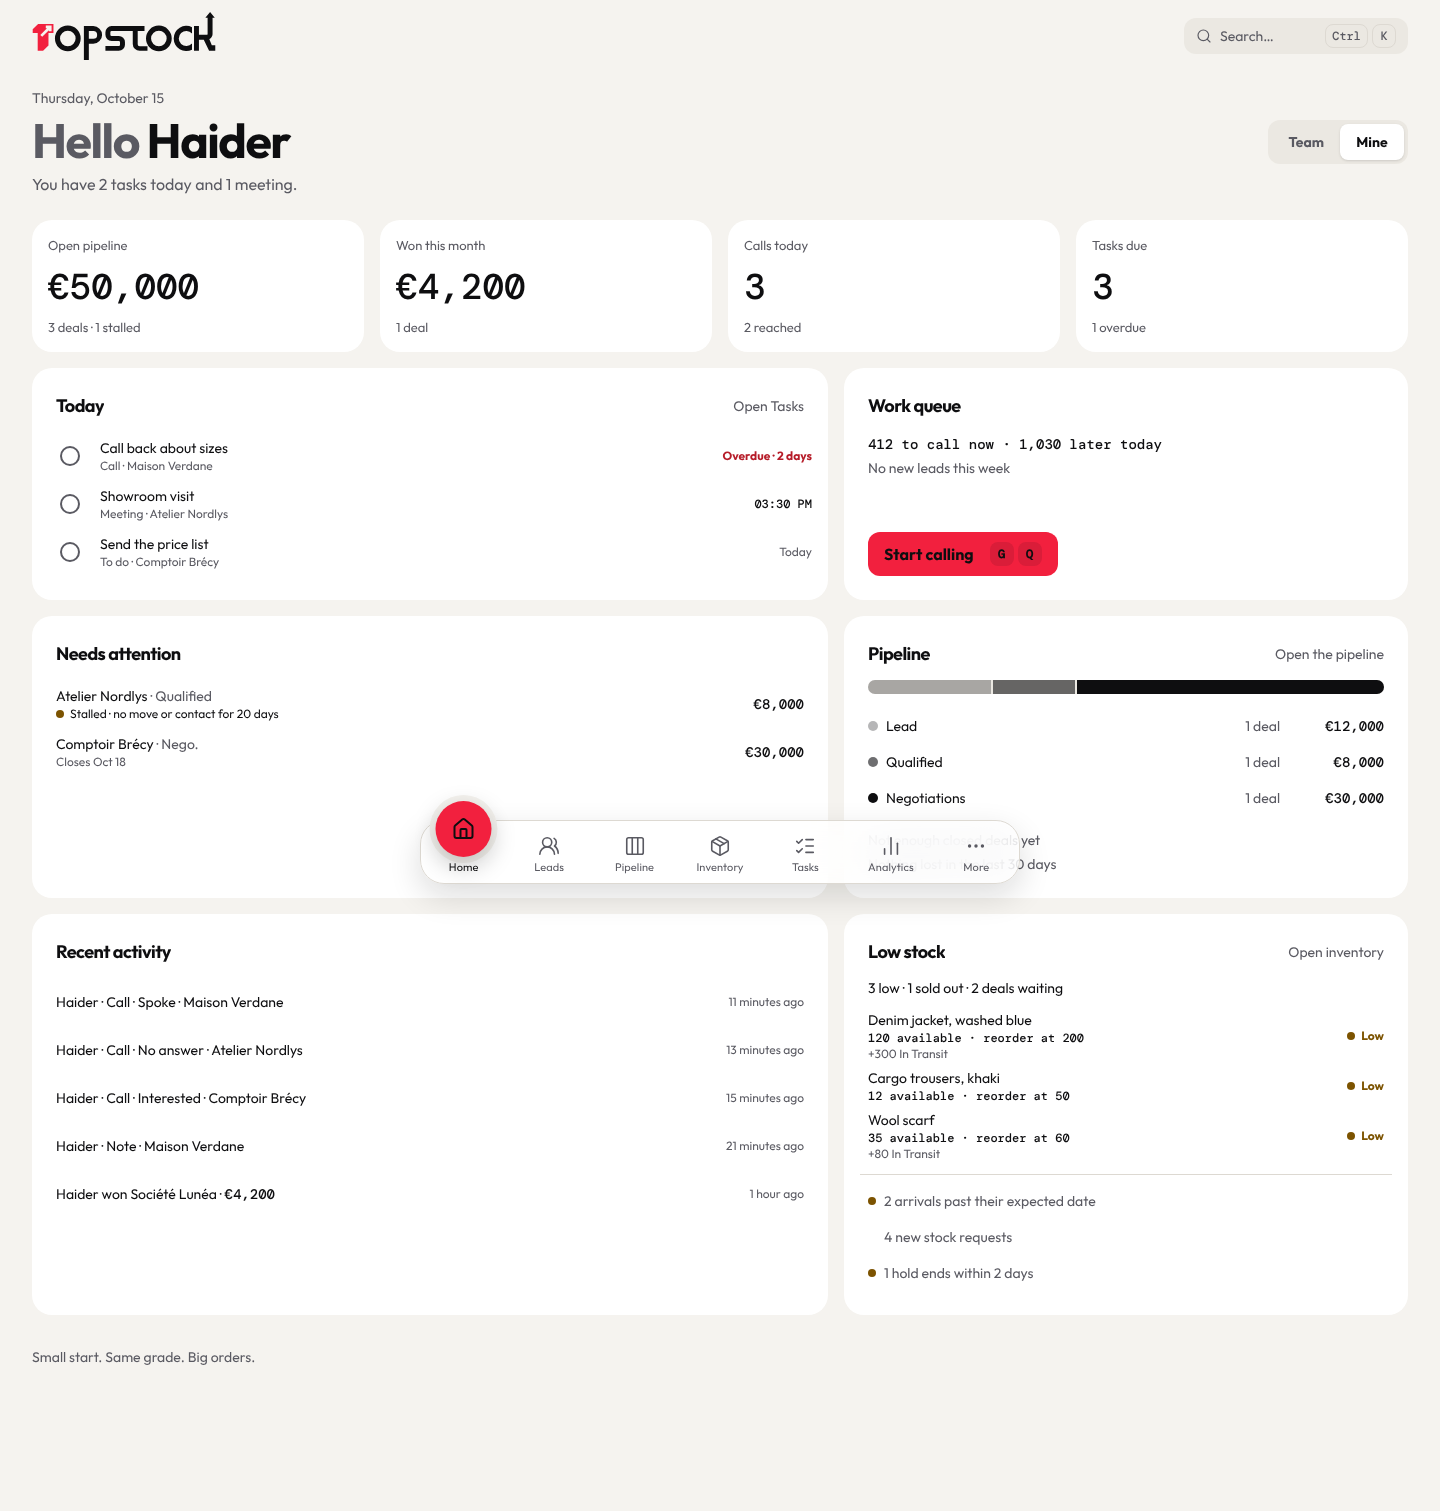
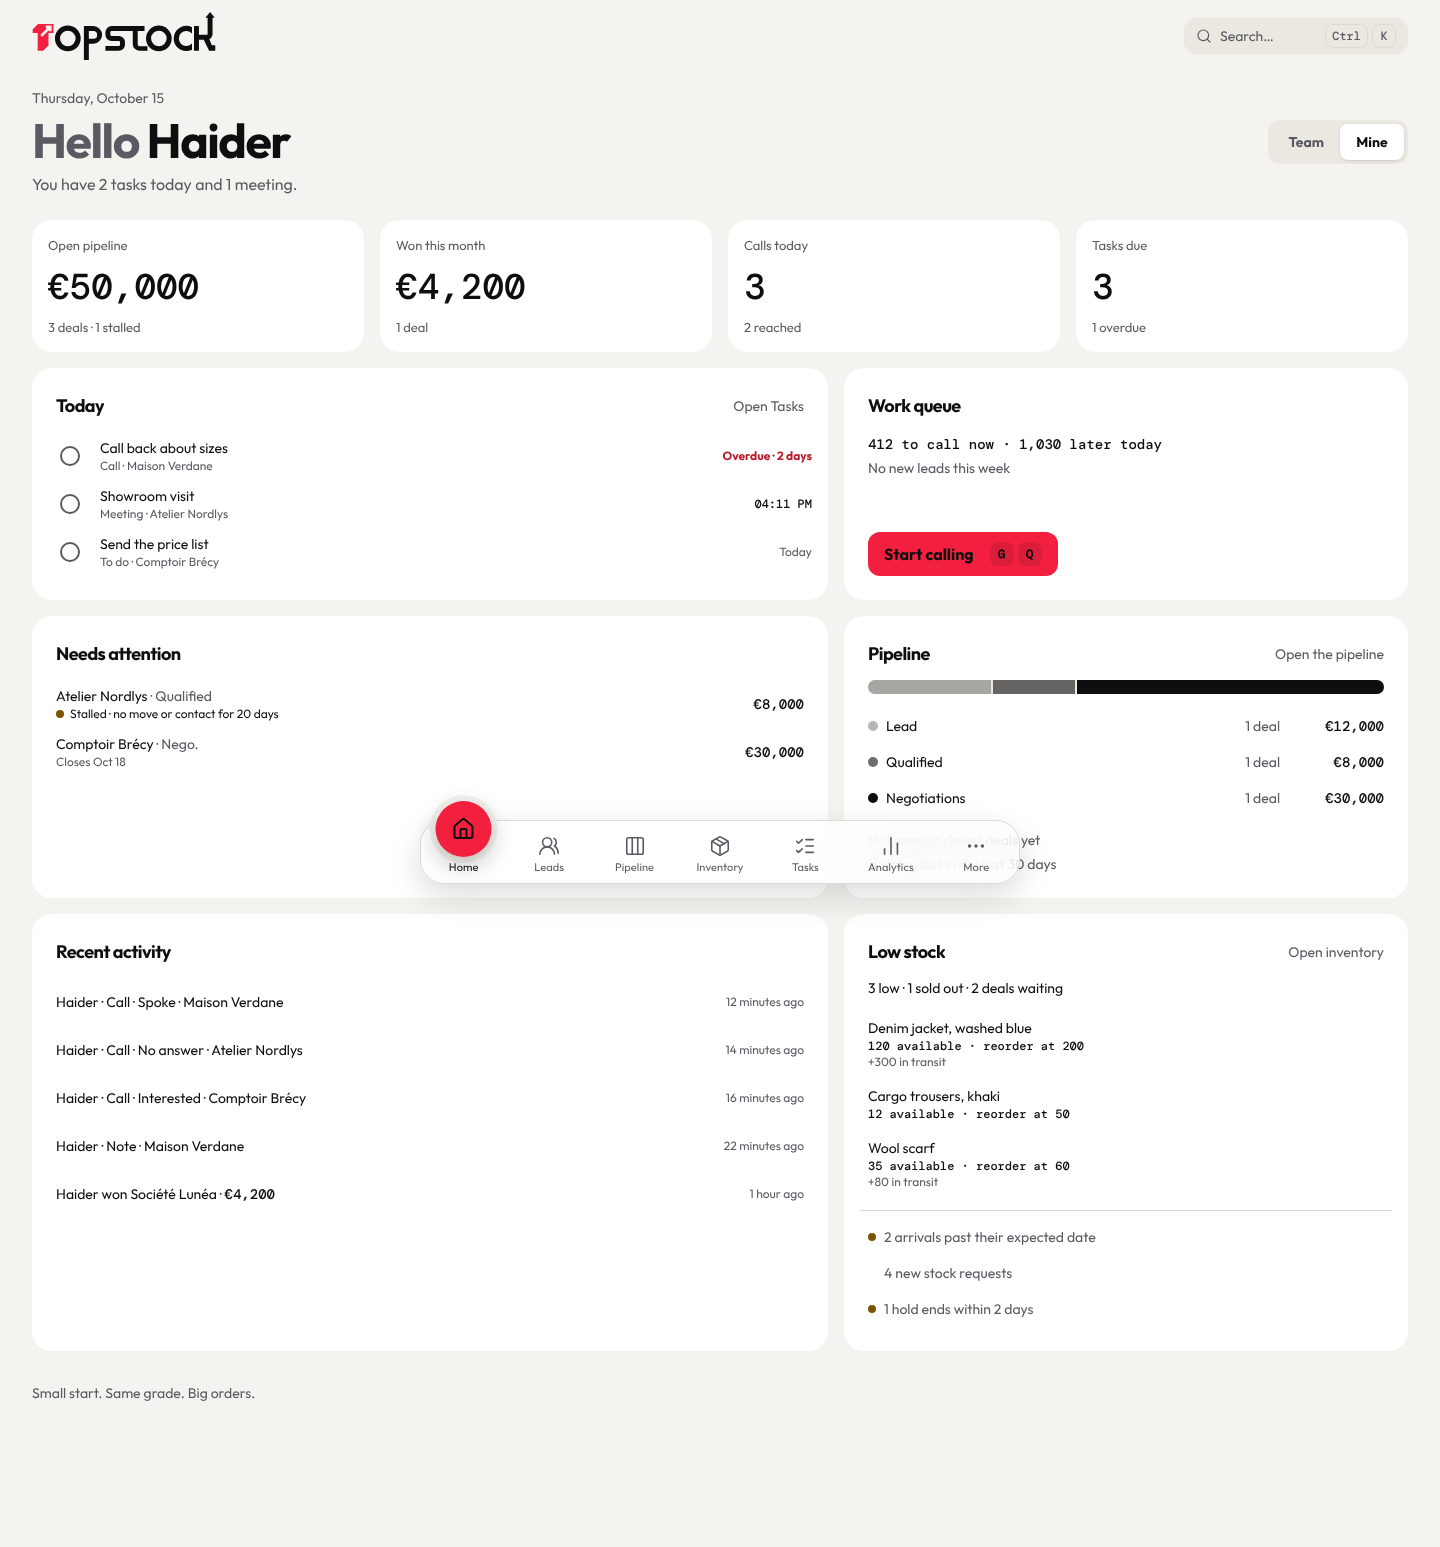
Advisor items 2 and 3 (evidence): Low stock shots at every width (390 to 1728) in EN and FR, light and dark, each failing on a console error, sideways scroll or a cut text line; new home-low-stock-loading shots measuring the skeleton against the filled card (within 20 px where the card is full width
Claude-Session: https://claude.ai/code/session_017iY13emXgm4frkkmSZrEnt

diff --git a/tests/auth/home-screens.spec.ts b/tests/auth/home-screens.spec.ts
@@ -5,10 +5,10 @@ import { makeOrg, moveTo, seedHome, userId } from "./home-fixture";
 
 // Day 5c evidence screenshots (design 8.5 "Screens", CLAUDE.md widths): Home with data (before Day 6, so Low stock shows
 // its placeholder) at 390, 768, 1024, 1280, 1440 and 1728, light and dark, English and French; a representative set in
-// EN light and FR dark at 390 and 1440: a new org's empty states, one card failing alone, Low stock filled from Day 6's
-// stock_alerts() shape, the deal sheet over Home, the loading skeleton, and the Work queue card with Day 4c's counts. The
-// person is an admin in an org made for this run, so the figures are the fixture's. URL asserted before each shot; no
-// console error and no sideways scroll first. Saved to test-results/home-screens, or DAY5C_SCREENS_DIR (locally
+// EN light and FR dark at 390 and 1440: a new org's empty states, one card failing alone, the deal sheet over Home, the
+// loading skeleton, and the Work queue card with Day 4c's counts; and Low stock filled from Day 6's stock_alerts() shape
+// at every width, light and dark, EN and FR. The person is an admin in an org made for this run, so the figures are the
+// fixture's. URL asserted before each shot; no console error and no sideways scroll first. Saved to test-results/home-screens, or DAY5C_SCREENS_DIR (locally
 // docs/evidence/day5c/screens).
 test.describe.configure({ mode: "serial", timeout: 900_000 });
 
@@ -35,6 +35,16 @@ const some = [
 // Day 4c's queue_summary is not on this branch (the card says the counts come with the work queue); the shots show the card as it
 // will look with 4c's contract, mocked, except the one shot named home-queue-before-4c.
 const queueMock = { callable_now: 412, later_today: 1030 };
+// The filled Low stock card's height per shot (locale-scheme-width), for its loading skeleton to be measured against.
+const filledLowStock = new Map<string, number>();
+
+// "en-light-390": the shot's locale, scheme and width, read back from the page.
+async function shotKey(page: Page) {
+  return page.evaluate(() => {
+    const dark = window.matchMedia("(prefers-color-scheme: dark)").matches ? "dark" : "light";
+    return `${document.documentElement.lang}-${dark}-${window.innerWidth}`;
+  });
+}
 
 async function shoot(
   browser: Browser,
@@ -136,9 +146,12 @@ test("representative set: empty org, card error, deal sheet, skeleton, queue bef
 });
 
 // Low stock filled from Day 6's stock_alerts() shape (Haider's decision B, 15 Oct 2026): the counts, up to 5 low
-// products and the follow-up lines. Run alone with --grep "Low stock" to re-take only these shots.
+// products and the follow-up lines, at every width (the card is 5 of 12 columns from 1024, so 1024 and 1280 are its
+// narrowest desktop sizes), light and dark, EN and FR. Each product's "available against the reorder level" line must
+// show whole (no ellipsis), like the console and sideways-scroll checks every shot makes. Run alone with --grep
+// "Low stock" to re-take only these shots.
 test("Low stock filled from Day 6's stock_alerts", async ({ browser }) => {
-  await shoot(browser, "home-low-stock-day6", some, [390, 1440], {
+  await shoot(browser, "home-low-stock-day6", full, ALL, {
     act: async (page) => {
       await page.route((url) => url.pathname === "/api/home" && url.searchParams.get("scope") === "mine", async (route) => {
         const res = await route.fetch();
@@ -159,8 +172,45 @@ test("Low stock filled from Day 6's stock_alerts", async ({ browser }) => {
       const scope = page.getByRole("group", { name: /Figures for|Chiffres de/ }).getByRole("button", { name: /Mine|Moi/ });
       await scope.click();
       await expect(scope).toHaveAttribute("aria-pressed", "true");
-      await expect(page.getByRole("region", { name: /Low stock|Stock bas/ }).getByRole("listitem").first()).toBeVisible();
+      const low = page.getByRole("region", { name: /Low stock|Stock bas/ });
+      const products = low.getByRole("listitem").filter({ hasText: /available|Disponible/ });
+      await expect(products).toHaveCount(3);
       await page.waitForTimeout(300);
+      // Nothing in a product row is cut: every text line fits its box (scrollWidth within clientWidth).
+      const cut = await products.evaluateAll((items) =>
+        items.flatMap((li) => [...li.querySelectorAll("span")].filter((s) => !s.children.length && s.scrollWidth > s.clientWidth + 0.5).map((s) => s.textContent)),
+      );
+      expect(cut, "low stock lines cut").toEqual([]);
+      const box = await low.boundingBox();
+      filledLowStock.set(await shotKey(page), box!.height);
     },
   });
 });
+
+// The loading skeleton (Home's loading.tsx) against the filled card above: the Low stock skeleton has the filled card's
+// blocks (action, count line, three product rows, follow-up lines), so where the card is full width (390, 768: nothing
+// beside it stretches it) its height stays within one text line of the filled card's. Run after the test above.
+test("Low stock loading skeleton matches the filled card", async ({ browser }) => {
+  expect(filledLowStock.size, "run with the filled Low stock test").toBe(24);
+  await shoot(browser, "home-low-stock-loading", full, ALL, {
+    path: "/leads",
+    act: async (page) => {
+      await page.waitForTimeout(800);
+      await page.route((url) => url.pathname === "/" && url.searchParams.has("_rsc"), async (route) => {
+        await new Promise((r) => setTimeout(r, 8000));
+        await route.continue().catch(() => {});
+      });
+      await page.getByRole("navigation", { name: /Sections/ }).getByRole("link").first().click();
+      const skeleton = page.locator("[data-skeleton='low-stock']");
+      await expect(skeleton).toBeVisible();
+      const key = await shotKey(page);
+      if (stackedWidth(key)) {
+        const height = (await skeleton.boundingBox())!.height;
+        expect(Math.abs(height - filledLowStock.get(key)!), `${key}: skeleton ${height}, filled ${filledLowStock.get(key)}`).toBeLessThanOrEqual(20);
+      }
+    },
+  });
+});
+function stackedWidth(key: string) {
+  return /-(390|768)$/.test(key);
+}

diff --git a/docs/evidence/day5c/apple-design-audit.md b/docs/evidence/day5c/apple-design-audit.md
@@ -22,3 +22,23 @@ Not done here: the Taste Skill pass (see README "Not done").
   the counts are 4c's queue_summary or "Nobody to call right now." (screens `v1-home-queue-*`, EN light and FR dark).
 - Today: a meeting with a lead in another zone shows "{time} their time" under its time (muted, DM Mono), as the Tasks page.
 - Needs attention: a row that leaves after a move hands the focus to the row now at its place (or the heading).
+
+## Advisor item 3 (15 Oct): the Low stock card filled from Day 6's `stock_alerts()`
+
+Order per CLAUDE.md: DESIGN.md (source of truth), then the Taste Skill (`design-taste-frontend`, dials from DESIGN.md:
+low variance 3, medium motion 5, medium-high density 7; its section 13 puts dashboards out of scope, so only its
+general rules were applied), then `anthropic-skills:apple-design` (this copy holds only its introduction: interfaces
+that feel physical, motion from the current value, restraint and feedback; judged by those foundations), then the web
+interface guidelines (`web-design-guidelines.md`). Looked at: `screens/home-low-stock-day6-*` before (scratch copies of
+the old build, 24 shots) and after (24 shots), and `screens/home-low-stock-loading-*` (24 shots).
+
+| Area | Finding | Result |
+|---|---|---|
+| Restraint (DESIGN.md "status colours only as small dots or labelled badges"; Taste 9.F "no decorative dots on every row"; apple-design restraint) | the amber dot plus "Low" on every product row repeated what the card's title and its count line ("3 low · …") already say: every listed product is low by definition (Day 6's `sample` holds low products only). Five identical badges were noise, and the amber column drew the eye away from the figures | **fixed (d29be68)**: badge removed; status colour stays where it carries a state (the follow-up dots for late arrivals and holds ending) |
+| Copy (sentence case) | "+300 In Transit" was Title Case mid-line, between sentence-case lines ("120 available · reorder at 200", "2 arrivals past their expected date"). "In Transit" is the Day 6 status name (log 11 Oct), right on a status label, not inside a line | **fixed (d29be68)**: EN "+300 in transit"; FR was already "+300 en transit"; unit test pins both |
+| Loading skeleton (DESIGN.md and CLAUDE.md: skeletons match the final layout; Taste 4.5) | the card's loading state and Home's `loading.tsx` drew 3 generic one-line rows with no header action: shorter than the filled card (count line, 3 two- or three-line product rows, follow-up lines) and a different shape | **fixed (d29be68)**: `LowStockSkeleton` draws the action, the count line, three product rows (name, figures; first and last with a transit line) and three follow-up lines, with the real rows' paddings and minimum heights. `home-screens` measures it against the filled card where the card is full width (390, 768: within 20 px, every locale and scheme); from 1024 the grid row stretches both to Recent activity's height |
+| Spacing (8pt grid) | three-line rows (name, figures, transit) had no vertical padding, so "+300 in transit" sat against the next product's name (seen at 1024 and 1280) | **fixed (d29be68)**: rows `py-2` (8 px), minimum heights kept (56 px phones, 48 px from 768) |
+| Figures cut (advisor: DM Mono line at 1024 and 1280, `lg:col-span-5`) | not cut with the fixture at any width (`home-screens` now checks every text line of every product row: `scrollWidth` within `clientWidth`), but the line was `truncate`, so a longer French line or 5-digit figures could have hidden a number | **fixed (d29be68)**: the figures and transit lines wrap (`break-words`), the product name alone truncates; removing the badge also gives the line the row's full width |
+| Typography | Outfit for names and counts, DM Mono for the figures that line up, muted Outfit for stock in transit; hierarchy by weight and tone, no new sizes | ok |
+| Motion and feedback | no motion in this card (it is read, not manipulated); links keep their hover tone and the global focus ring; skeleton pulse off under reduced motion (`motion-safe:`) | ok |
+| Kept on purpose | the middle dot in the count line ("3 low · 1 sold out · 2 deals waiting": two dots; Taste 9.F rations it to one per line) is the app-wide metadata separator (KPI sub-lines, feed rows, deal cards), so changing it here alone would break consistency | no change |

diff --git a/docs/evidence/day5c/screens/README.md b/docs/evidence/day5c/screens/README.md
@@ -1,0 +1,26 @@
+# Day 5c screenshots (Home)
+
+Made by `tests/auth/home-screens.spec.ts` (Chromium 141, local stack, `DAY5C_SCREENS_DIR=docs/evidence/day5c/screens`),
+except `v1-home-queue-*` (verifier round 1, `day5-screens.spec.ts`). The person is an admin in an org made for the run,
+so the figures are the fixture's. Each shot: URL asserted, no console error, no sideways scroll (a shot fails on
+either). Names: `<screen>-<locale>-<scheme>-<width>.png`. The full matrix is 390, 768, 1024, 1280, 1440, 1728 ×
+en/fr × light/dark (24 files).
+
+| Screen | Locales × schemes | Widths | Files | Last taken |
+|---|---|---|---|---|
+| `home` (with data, before Day 6: Low stock shows its placeholder) | en/fr × light/dark | full | 24 | 15 Oct (verifier round 1) |
+| `home-new-org` (a new org's empty states) | en light, fr dark | 390, 1440 | 4 | 15 Oct |
+| `home-card-error` (Needs attention failing alone) | en light, fr dark | 390, 1440 | 4 | 15 Oct |
+| `home-deal-sheet` (the deal sheet over Home) | en light, fr dark | 390, 1440 | 4 | 15 Oct |
+| `home-loading` (`loading.tsx` during a held navigation, first screen) | en light, fr dark | 390, 1440 | 4 | 15 Oct (unchanged by item 3: the Low stock card is below the fold) |
+| `home-queue-before-4c` | en light | 1440 | 1 | 15 Oct |
+| `home-low-stock-day6` (Low stock filled from Day 6's `stock_alerts()` shape: 3 products, 2 with stock in transit, 3 follow-up lines) | en/fr × light/dark | full | 24 | 15 Oct, advisor items 2 and 3 (was en light and fr dark at 390 and 1440 only) |
+| `home-low-stock-loading` (`loading.tsx` full page: the Low stock skeleton beside the other cards' skeletons) | en/fr × light/dark | full | 24 | 15 Oct, advisor item 3 (new) |
+| `v1-home-queue` (Work queue card with Day 4c's counts) | en light, fr dark | 390, 1440 | 4 | 15 Oct (verifier round 1) |
+
+The Low stock shots also check, before each screenshot, that no text line of a product row is cut (`scrollWidth` within
+`clientWidth`), and the loading shots that the skeleton card's height is within 20 px of the filled card's at 390 and
+768 (full-width card; from 1024 the grid row stretches both cards to Recent activity's height). Looked at: every
+Low stock width in EN and FR, with 1024 and 1280 (the card at 5 of 12 columns) closest: the figures line fits whole,
+no "Low" badge, "+300 in transit" / "+300 en transit", rows no longer touching; the skeleton beside the filled card at
+390 (same blocks, same rows).

diff --git a/docs/evidence/day5c/web-design-guidelines.md b/docs/evidence/day5c/web-design-guidelines.md
@@ -30,3 +30,33 @@ Unresolved: none.
 - Focus is kept when the focused Needs attention row leaves (after the deal sheet closes, or while it is open);
   `attention_opens_deal_sheet and refetch_after_move` checks both orders with `toBeFocused`.
 - Start calling: `aria-keyshortcuts="G Q"`, key caps `aria-hidden`.
+
+## Advisor item 3 (15 Oct): the Low stock card and its skeleton
+
+Rules: vercel-labs/web-interface-guidelines at 434b7f9 (`command.md`, fetched again with WebFetch for this audit: not
+blocked). Files: `src/components/home/low-stock-card.tsx`, `src/components/home/home-skeleton.tsx`.
+
+### Findings and fixes (d29be68)
+
+- `low-stock-card.tsx` (product rows) - Content handling: the figures line was `truncate`, so a long line could hide a
+  number → it wraps (`break-words`); the name keeps its one-line ellipsis in a `min-w-0` row.
+- `low-stock-card.tsx` (loading) and `home-skeleton.tsx` (last card) - loading state shaped unlike the content (3
+  one-line rows, no action) → `LowStockSkeleton` and `LowStockActionSkeleton` at the content's sizes, `aria-hidden`,
+  pulse behind `motion-safe:`.
+- `messages/en.json` `Home.lowStock.inTransit` - Title Case inside a line ("In Transit"); the guideline's Title Case
+  is for headings and buttons, and the app's lines are sentence case → "in transit".
+
+### Checked, no change needed
+
+- Accessibility: the card is a region named by its heading; the follow-up list is labelled ("Also in inventory"); the
+  placeholder icon and the dots are `aria-hidden`; every status keeps its words; the skeleton is `aria-hidden` and the
+  card says `aria-busy` while loading.
+- Focus and hover: the links (Open inventory, follow-ups) use the global `:focus-visible` ring and a hover tone stronger
+  than rest; 44 px targets on phones.
+- Navigation: real links with each Inventory tab or filter in the URL.
+- Typography: DM Mono (tabular) for the figures; French narrow no-break spaces before colons (unit test).
+- Locale: numbers through `useFormatter` (Intl) in the page's locale.
+- Layout: no sideways scroll at any width (`home-screens`, 72 Low stock shots); flex children `min-w-0`.
+- Performance: at most 5 product rows (no virtualisation needed).
+
+Unresolved: none.

diff --git a/docs/evidence/day5c/README.md b/docs/evidence/day5c/README.md
@@ -151,6 +151,21 @@ Verifier verdict on b6b360b: NOT READY. The Day 5c findings (the shared ones, 3,
   `home-screens --grep "Low stock"` 1 passed (4 shots).
 - **gitleaks**: `origin/main..HEAD` 77 commits and the 3 new ones alone: no leaks.
 
+## Advisor round (15 Oct, on 5f1a966..ea75fbf: CHANGES NEEDED, 4 items)
+
+1. **Day 5's own tests and Day 6's real `stock_alerts()`** (ceca0b5; 6d README note on day6a-local 400ff4e): see
+   "Rebase points" for the four places and how they now work on either body; mutation rows 20 and 21.
+2. **Low stock shots at every width** (`home-screens.spec.ts`): `home-low-stock-day6` now 390 to 1728 × EN/FR ×
+   light/dark (24 shots); each still fails on a console error or sideways scroll, and now also when a product row's text
+   is cut. Nothing was cut at 1024 or 1280 with the fixture, but the figures line could truncate: it wraps now (item 3).
+   `screens/README.md` lists every set.
+3. **Design audits of the Low stock card** (d29be68; `apple-design-audit.md`, `web-design-guidelines.md`): the per-row
+   "Low" badge removed (every listed product is low), "+300 in transit" in sentence case (FR "en transit" as before),
+   rows padded (three-line rows touched), figures wrap; `LowStockSkeleton` (action, count line, three product rows,
+   three follow-up lines) in the card's loading state and Home's `loading.tsx`, measured against the filled card in the
+   new `home-low-stock-loading` shots (24).
+4. Pipeline evidence gaps: in the 5b README.
+
 ## Deviations from the design
 
 1. **Tasks** (since the 4c rebase): K5's overdue and today are Day 4c's `count_tasks('mine')`; K6 (the day's meetings)
